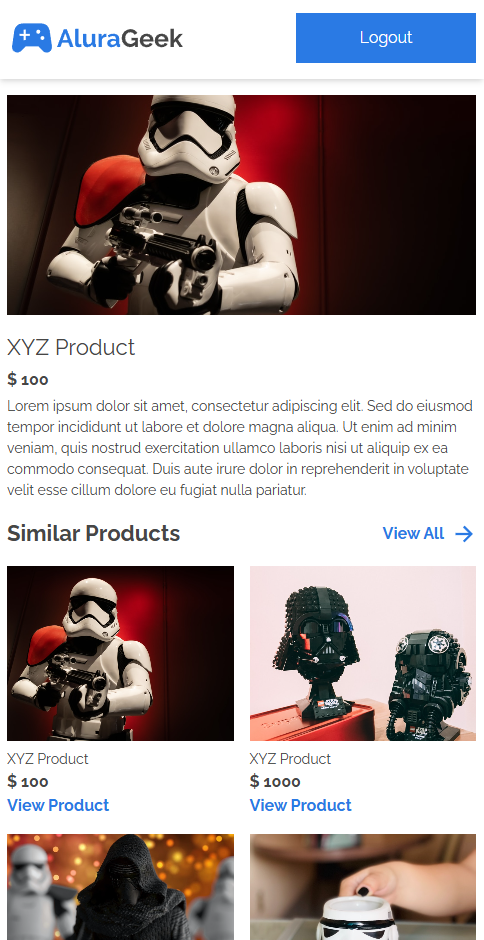
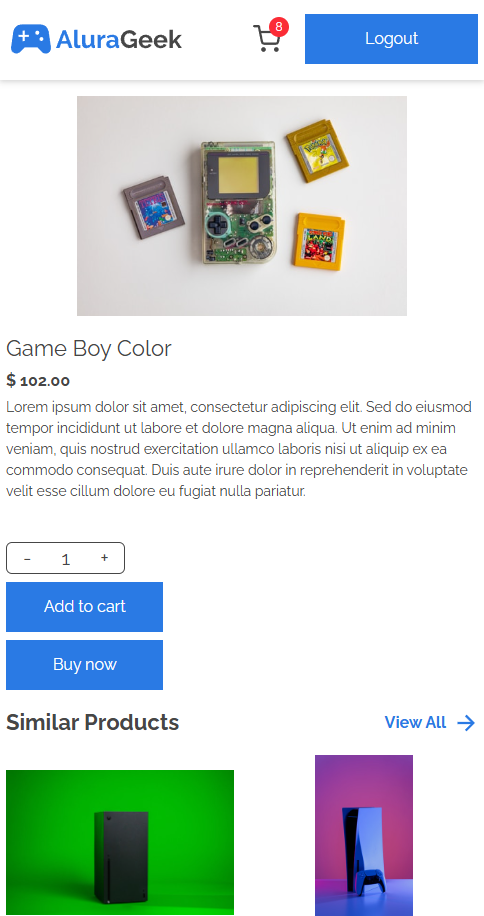
update README with cart functionality and images

diff --git a/README.md b/README.md
@@ -1,7 +1,7 @@
 # Geek Shop
 
-Frontend for a geek products store. Customers can browse products by category and view
-product details. Store owners have a dedicated dashboard to manage their store and products.
+Frontend for a geek products store. Customers can browse products by category, view
+product details and manage a shopping cart. Store owners have a dedicated dashboard to manage their store and products.
 Includes a complete authentication flow with login, password recovery, and email verification.
 Fully responsive design for mobile and desktop.
 
@@ -22,6 +22,8 @@ Fully responsive design for mobile and desktop.
 - **HTTP Client:** Axios
 - **Testing:** Playwright
 - **Notifications:** React Toastify
+- **State Management:** Zustand
+- **Decimal Arithmetic:** Decimal.js
 
 ## ⚙ Setup
 
@@ -91,13 +93,14 @@ The `dev:prepare` script generates the `.env` file automatically. Key variables:
 | ![Home](./docs/screenshots/home.png)                 | ![Product Detail](./docs/screenshots/product-detail.png)                  |
 | ![Login](./docs/screenshots/login.png)               | ![Admin Dashboard](./docs/screenshots/admin-dashboard.png)                |
 | ![Product Form](./docs/screenshots/product-form.png) | ![Product Form Modal](./docs/screenshots/product-form-category-modal.png) |
+| ![Cart Drawer](./docs/screenshots/cart-drawer.png)   |
 
 ### Mobile
 
-|                                                                          |                                                                        |
-| ------------------------------------------------------------------------ | ---------------------------------------------------------------------- |
-| ![Home Mobile](./docs/screenshots/home-mobile.png)                       | ![Product Detail Mobile](./docs/screenshots/product-detail-mobile.png) |
-| ![Admin Dashboard Mobile](./docs/screenshots/admin-dashboard-mobile.png) |                                                                        |
+|                                                                  |                                                                          |
+| ---------------------------------------------------------------- | ------------------------------------------------------------------------ |
+| ![Home Mobile](./docs/screenshots/home-mobile.png)               | ![Product Detail Mobile](./docs/screenshots/product-detail-mobile.png)   |
+| ![Cart Drawer Mobile](./docs/screenshots/cart-drawer-mobile.png) | ![Admin Dashboard Mobile](./docs/screenshots/admin-dashboard-mobile.png) |
 
 ## 📁 Project Structure
 
@@ -126,6 +129,7 @@ Each feature follows this structure:
     ├── 📁constants/      # Feature-specific constants
     ├── 📁hooks/          # Feature-specific hooks (optional)
     ├── 📁interfaces/     # Feature-specific interfaces
+    ├── 📁mappers/        # Feature-specific mappers (optional)
     ├── 📁services/       # Feature-specific services
     └── 📁utils/          # Feature-specific utilities (optional)
 ```
